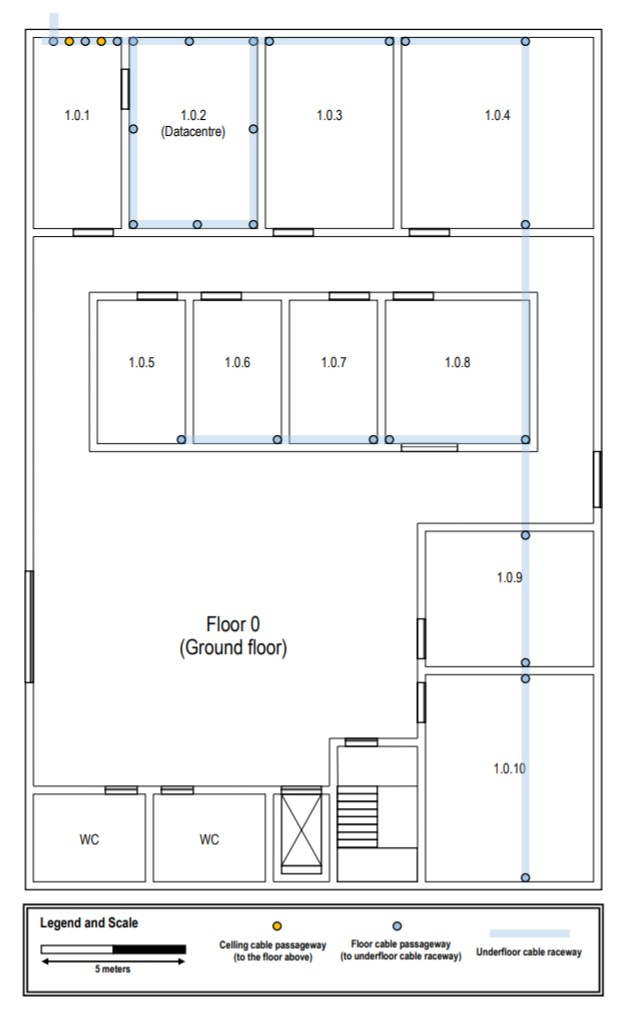
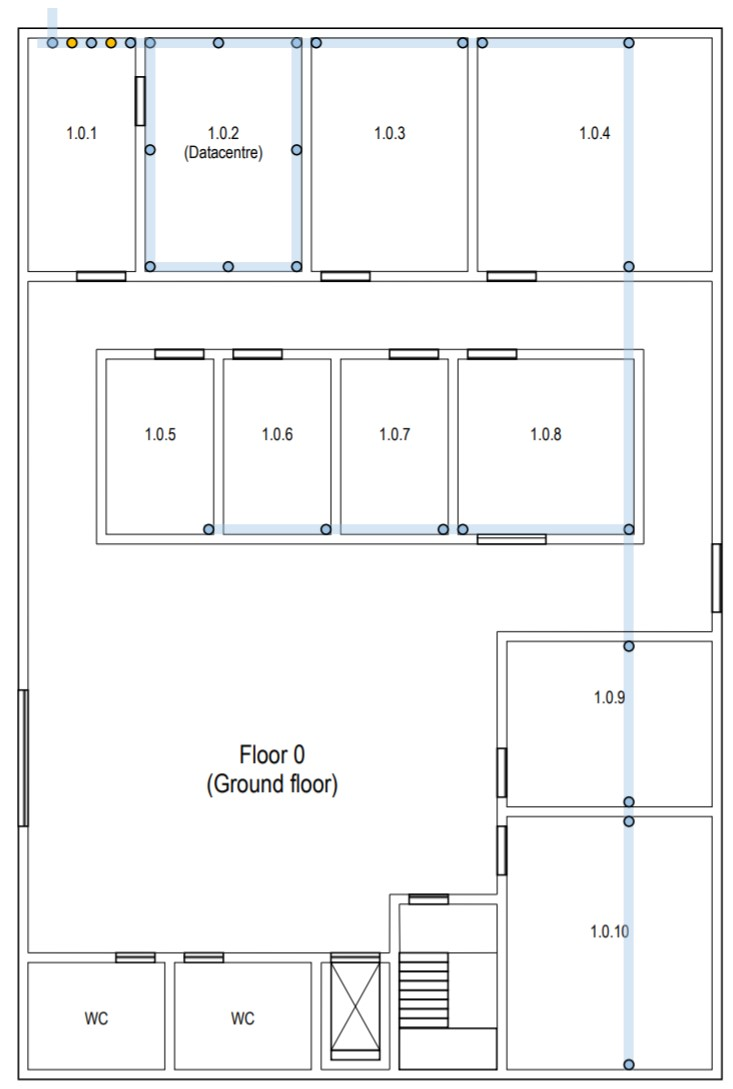
Disposição das tomadas de rede do edifício 1

diff --git a/doc/sprint1/1201386/README.md b/doc/sprint1/1201386/README.md
@@ -3,8 +3,12 @@ RCOMP 2021-2022 Project - Sprint 1 - Member 1201386 Folder
 
 ## Identificação das normas de cablagem estruturada utilizadas
 
+### Outlets
 - Mínimo de 2 outlets por área de trabalho.
 - Proporção de 2 outlets para cada 10 metros quadrados de área.
+
+###  Horizontal cross-connect
+- Por cada 1000 metros quadrados de área tem de existir 1 HC.
 
 ## Edifício 1
 
@@ -34,6 +38,16 @@ RCOMP 2021-2022 Project - Sprint 1 - Member 1201386 Folder
 |1.0.10 |7,2222          	|5,9259     	 |42,798	  |	10	            	 |
 
 ### Justificações Relevantes:
+
+- As áreas comuns, como o átrio de entrada, as casas de banho e as escadas, não 
+  necessitam de tomadas de rede.
+  
+- Este piso apresenta apenas um HC, pois este tem uma cobertura de cerca de 1000 metros 
+  quadrados e o edifício apresenta apenas 600 metros quadrados de área.
+
+### Disposição dos Outlets:
+
+![1201386](1201386_Building1_Floor0_Outlets.jpg)
 
 ### Inventário Total Piso 0:
 
@@ -69,6 +83,16 @@ RCOMP 2021-2022 Project - Sprint 1 - Member 1201386 Folder
 |1.1.14 |7,2222          	|5,9259     	 |42,798	  |	10	            	 |
 
 ### Justificações Relevantes:
+
+- A sala 1.1.1 é uma área de armazenamento e não são necessárias tomadas de rede lá, 
+  e o mesmo aplica-se às casas de banho e a áreas comuns como corredores e átrios.
+
+- Este piso apresenta apenas um HC, pois este tem uma cobertura de cerca de 1000 metros
+  quadrados e o edifício apresenta apenas 600 metros quadrados de área.
+
+### Disposição dos Outlets:
+
+![1201386](1201386_Building1_Floor1_Outlets.jpg)
 
 ### Inventário Total Piso 1:
 
